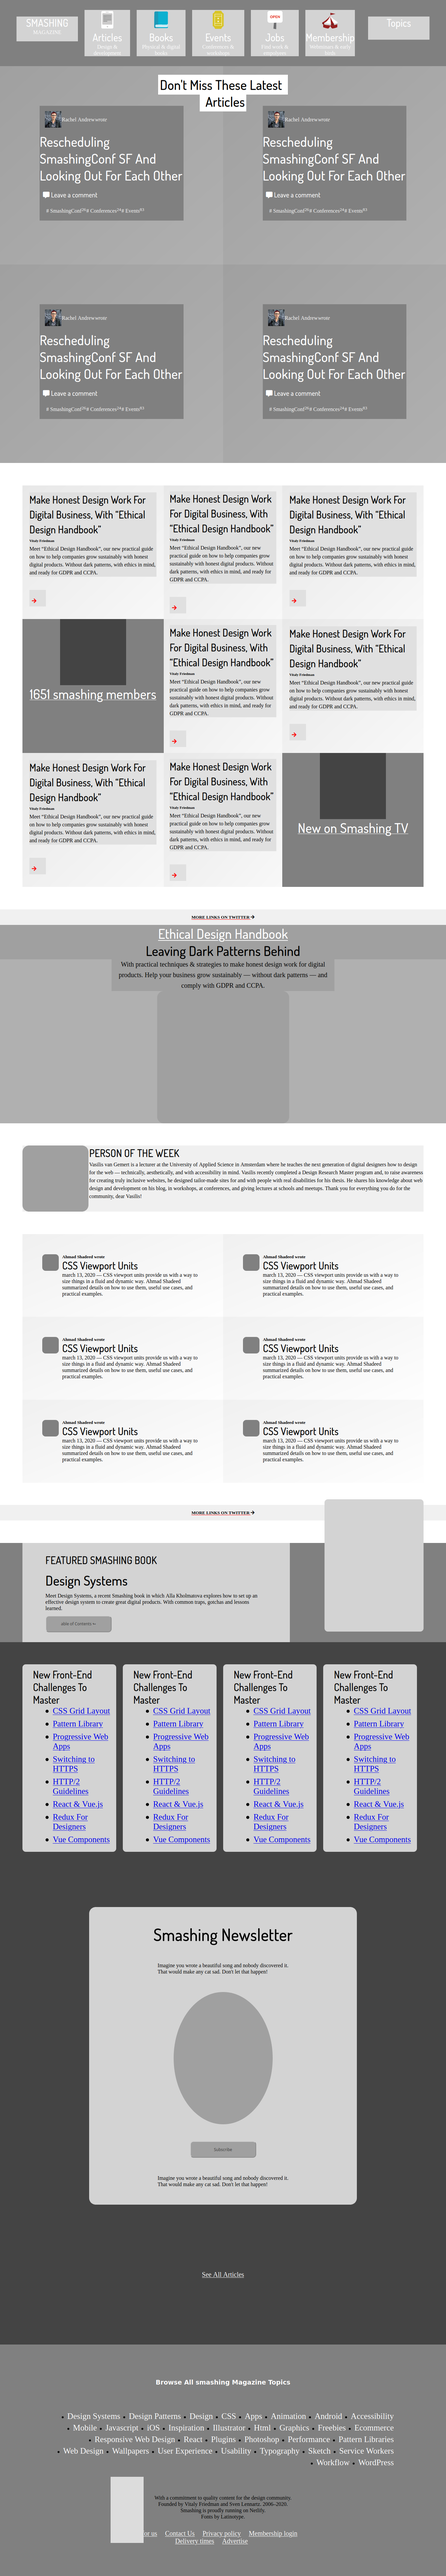
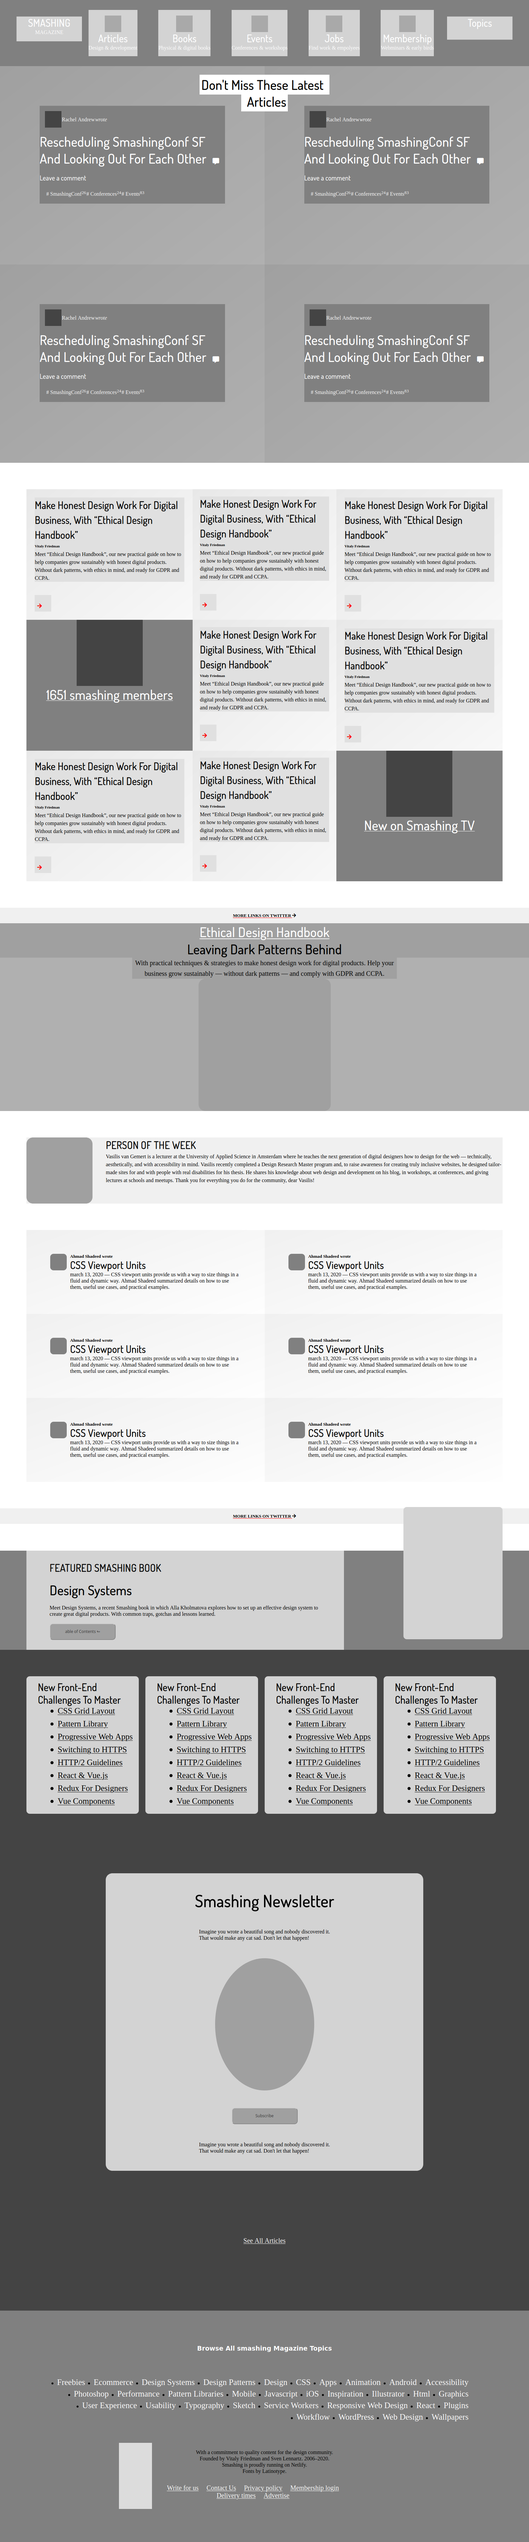
implemented optional suggestions by reviewr @euqueme

Changed region(s): [[0.0, 0.0, 1.0, 0.4057], [0.0, 0.4369, 1.0, 0.8739], [0.1554, 0.9051, 0.8705, 0.9987]]

diff --git a/index.html b/index.html
@@ -15,43 +15,42 @@
     <header>
       <div class="logo"><h3>SMASHING</h3>MAGAZINE</div>
      
-      <div class="nav">
+      <nav>
         <div class="li">
           <a href="#">
-            <img src="images/articles.svg" alt="articles">
-            <h3>Articles</h3>
+            <div class=nav-img></div>             <h3>Articles</h3>
             <p>Design & development</p>
           </a>
         </div>
         <div class="li">
           <a href="#">            
-            <img src="images/books.svg" alt="books">
+            <div class=nav-img></div>
             <h3>Books</h3>
             <p>Physical & digital books</p>
             </a>
           </div>
         <div class="li">
-          <a href="#">            
-            <img src="images/events.svg" alt="events">
+          <a href="#">
+            <div class=nav-img></div>            
             <h3>Events</h3>
             <p>Conferences & workshops</p>
           </a>
         </div>
         <div class="li">
           <a href="#">            
-            <img src="images/jobs.svg" alt="jobs">
+            <div class=nav-img></div>
             <h3>Jobs</h3>
             <p>Find work & empolyees</p>
             </a>
         </div>
         <div class="li">
           <a href="#">            
-            <img src="images/membership.svg" alt="membership">
+            <div class=nav-img></div>
             <h3>Membership</h3>
             <p>Webminars & early birds</p>
           </a>
         </div>
-      </div>
+      </nav>
       
       <div class="search"><h3>Topics</h3></div>
     </header>
@@ -61,7 +60,7 @@
       <div class="articles-container">
         <article class="articles">
           <a href="#" class="author">
-            <img src="images/rachel-andrew-tw-profile.jpg" alt="rachel-andrew-tw-profile">
+            <span class="article-img"></span>
             Rachel Andrew <i>wrote</i>
           </a>
           <a href="#">
@@ -77,7 +76,7 @@
         </article>
         <article class="articles">
           <a href="#" class="author">
-            <img src="images/rachel-andrew-tw-profile.jpg" alt="rachel-andrew-tw-profile">
+            <span class="article-img"></span>
             Rachel Andrew <i>wrote</i>
           </a>
           <a href="#">
@@ -93,7 +92,7 @@
         </article>
         <article class="articles">
           <a href="#" class="author">
-            <img src="images/rachel-andrew-tw-profile.jpg" alt="rachel-andrew-tw-profile">
+            <span class="article-img"></span>
             Rachel Andrew <i>wrote</i>
           </a>
           <a href="#">
@@ -109,7 +108,7 @@
         </article>
         <article class="articles">
           <a href="#" class="author">
-            <img src="images/rachel-andrew-tw-profile.jpg" alt="rachel-andrew-tw-profile">
+            <span class="article-img"></span>
             Rachel Andrew <i>wrote</i>
           </a>
           <a href="#">

diff --git a/style.css b/style.css
@@ -34,7 +34,7 @@ header a {
   color: white;
 }
 
-.nav {
+nav {
   list-style-type: none;
   width: 70%;
   display: flex;
@@ -51,12 +51,20 @@ header a {
   margin: 20px;
 }
 
-.nav .li {
+.nav-img {
+  width: 50px;
+  height: 50px;
+  margin: auto;
+  background-color: darkgray;
+}
+
+.li {
   margin-right: 20px;
   background-color: lightgrey;
   display: flex;
   flex-flow: column;
   justify-content: center;
+  text-align: center;
 }
 
 h4,
@@ -133,8 +141,10 @@ main {
   background: gray;
 }
 
-.articles img {
+.article-img {
   width: 50px;
+  height: 50px;
+  background-color: #444;
 }
 
 .articles ul {
@@ -172,7 +182,7 @@ main {
   margin-top: 40px;
   width: 50px;
   height: 50px;
-  color: red;
+  color: black;
 }
 
 .cover-arrow i {
@@ -325,16 +335,6 @@ footer {
   color: white;
 }
 
-.nav .li a {
-  text-align: center;
-  color: white;
-}
-
-.nav .li a img {
-  width: 50px;
-  height: 60px;
-}
-
 .footer-notes {
   clear: both;
   padding-top: 80px;
@@ -414,6 +414,10 @@ footer {
 .curated-article ul li {
   margin-bottom: 10px;
   font-size: 25px;
+}
+
+.curated-article ul li a {
+  color: black;
 }
 
 .curated-box2 {
